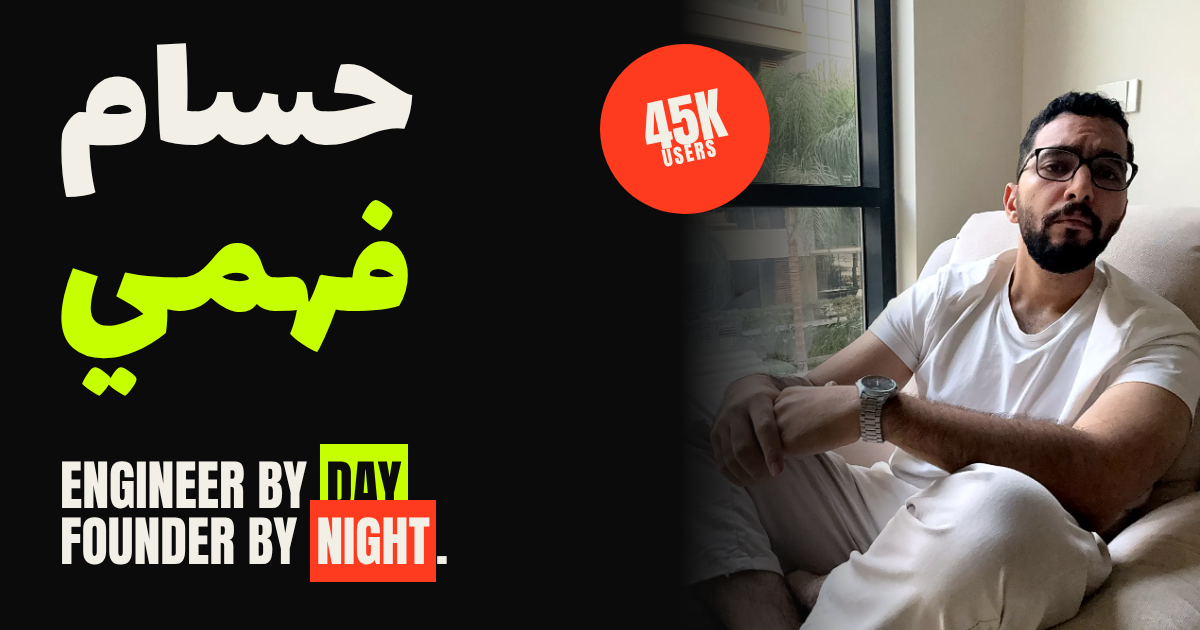
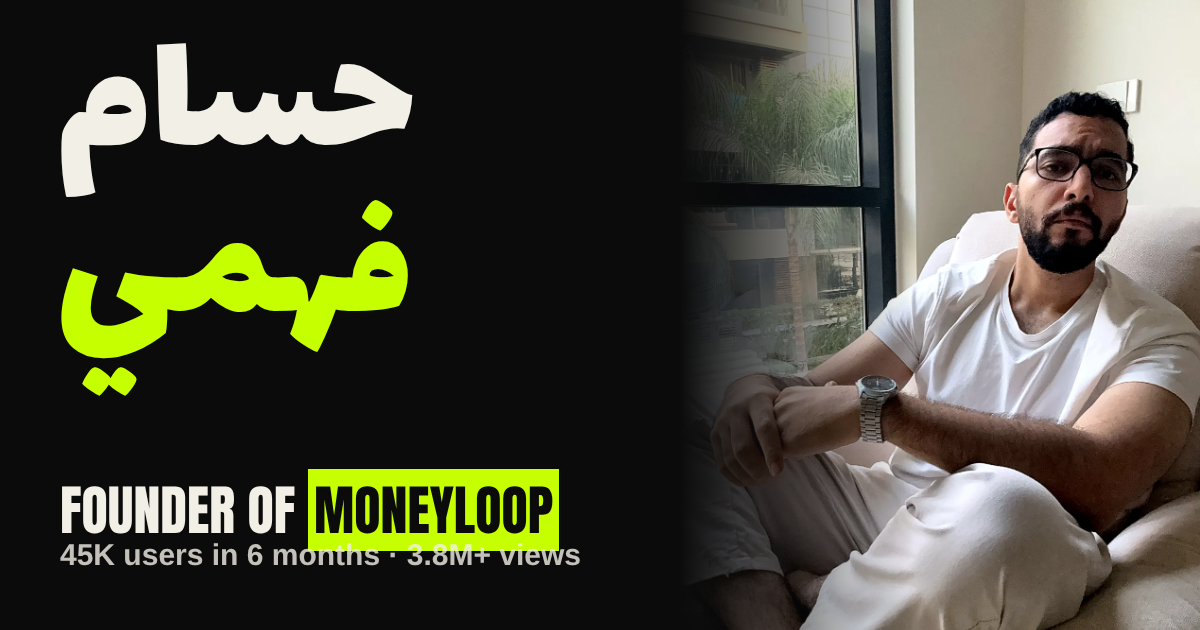
me v3: drop ticker and sticker, calmer investor-friendly hero
Claude-Session: https://claude.ai/code/session_01Dt1qxrqNwLt1sDhViMNk1D

Changed region(s): [[0.0308, 0.6937, 0.4933, 0.9349], [0.4933, 0.0603, 0.6475, 0.3619]]

diff --git a/me/index.html b/me/index.html
@@ -3,14 +3,14 @@
 <head>
 <meta charset="utf-8">
 <meta name="viewport" content="width=device-width, initial-scale=1, viewport-fit=cover">
-<title>حسام فهمي — مهندس بالنهار، فاوندر بالليل</title>
+<title>حسام فهمي — فاوندر MoneyLoop</title>
 <meta name="description" content="من الحقوق للكود للفاوندر. حسام فهمي: فاوندر MoneyLoop (45 ألف مستخدم في 6 شهور)، صانع محتوى القرش الأبيض، وسينيور سوفتوير إنجينير.">
 <meta name="theme-color" content="#0B0B0B">
 <link rel="canonical" href="https://hossamfahmy.com/me/">
 <meta property="og:type" content="profile">
 <meta property="og:url" content="https://hossamfahmy.com/me/">
-<meta property="og:title" content="حسام فهمي — مهندس بالنهار، فاوندر بالليل">
-<meta property="og:description" content="45 ألف مستخدم في 6 شهور. +3.8 مليون مشاهدة. كو فاوندر ستارت أب توصيل من 2018.">
+<meta property="og:title" content="حسام فهمي — فاوندر MoneyLoop">
+<meta property="og:description" content="فاوندر MoneyLoop: 45 ألف مستخدم في 6 شهور. +3.8 مليون مشاهدة على القرش الأبيض. كو فاوندر Went (2018).">
 <meta property="og:image" content="https://hossamfahmy.com/me/og.png">
 <meta name="twitter:card" content="summary_large_image">
 <link rel="icon" href="/favicon.svg" type="image/svg+xml">
@@ -34,32 +34,23 @@
       <img src="/me/hero.webp" alt="" width="1100" height="1467" fetchpriority="high">
     </figure>
     <div class="hero__copy">
-      <p class="tag mono"><span class="ar">مش السي ڤي. القصة.</span><span class="en">Not the CV. The story.</span></p>
+      <p class="tag mono"><span class="ar">القاهرة · فاوندر · مهندس · صانع محتوى</span><span class="en">Cairo · Founder · Engineer · Creator</span></p>
       <h1 id="hero-name" class="name">
         <span class="ar"><span class="l1">حسام</span><span class="l2">فهمي</span></span>
         <span class="en"><span class="l1">HOSSAM</span><span class="l2">FAHMY</span></span>
       </h1>
       <p class="hero__line">
-        <span class="ar">مهندس <mark>بالنهار</mark>.<br>فاوندر <mark class="hot">بالليل</mark>.</span>
-        <span class="en">Engineer by <mark>day</mark>.<br>Founder by <mark class="hot">night</mark>.</span>
+        <span class="ar">فاوندر <b class="lime">MoneyLoop</b>.<br>مهندس سوفتوير، وبتكلم عن الفلوس.</span>
+        <span class="en">Founder of <b class="lime">MoneyLoop</b>.<br>Software engineer. I talk about money.</span>
       </p>
     </div>
-    <div class="sticker" aria-hidden="true"><span class="ar">45K<br><small>مستخدم</small></span><span class="en">45K<br><small>users</small></span></div>
   </section>
-
-  <!-- TICKER -->
-  <div class="ticker" aria-hidden="true">
-    <div class="ticker__track">
-      <span class="ar">45,000 مستخدم ✶ 100 أوردر في اليوم ✶ نص مليون جنيه استثمار ✶ +3.8 مليون مشاهدة ✶ حقوق ← كود ← فاوندر ✶ </span><span class="en">45,000 USERS ✶ 100 ORDERS A DAY ✶ EGP 500K RAISED ✶ 3.8M+ VIEWS ✶ LAW → CODE → FOUNDER ✶ </span>
-      <span class="ar">45,000 مستخدم ✶ 100 أوردر في اليوم ✶ نص مليون جنيه استثمار ✶ +3.8 مليون مشاهدة ✶ حقوق ← كود ← فاوندر ✶ </span><span class="en">45,000 USERS ✶ 100 ORDERS A DAY ✶ EGP 500K RAISED ✶ 3.8M+ VIEWS ✶ LAW → CODE → FOUNDER ✶ </span>
-    </div>
-  </div>
 
   <!-- INTRO -->
   <section class="intro">
     <p class="big">
-      <span class="ar">درست <s>حقوق</s>. فتحت ستارت أب وأنا لسه في الكلية. اتعلمت البرمجة من الصفر، ودلوقتي سينيور سوفتوير إنجينير الصبح، وبالليل ببني <b class="lime">MoneyLoop</b> وبعمل محتوى عن الفلوس.</span>
-      <span class="en">I studied <s>law</s>. Started a company while still in college. Learned to code from zero. Now I'm a senior software engineer by day, and by night I build <b class="lime">MoneyLoop</b> and make videos about money.</span>
+      <span class="ar">درست حقوق. وأنا لسه في الكلية شاركت في تأسيس ستارت أب. اتعلمت البرمجة من الصفر، ودلوقتي سينيور سوفتوير إنجينير الصبح، وبالليل ببني <b class="lime">MoneyLoop</b> وبعمل محتوى عن الفلوس.</span>
+      <span class="en">I studied law. While still in college, I co-founded a startup. Learned to code from zero. Now I'm a senior software engineer by day, and by night I build <b class="lime">MoneyLoop</b> and make videos about money.</span>
     </p>
   </section>
 
@@ -111,7 +102,7 @@
   <!-- SPLIT PHOTO -->
   <section class="split" aria-hidden="true">
     <img src="/me/split.webp" alt="" loading="lazy" width="1000" height="1333">
-    <p class="split__word"><span class="ar">لسه<br>بادئ.</span><span class="en">JUST<br>GETTING<br>STARTED.</span></p>
+    <p class="split__cap mono"><span class="ar">ببني حاجات الناس بتستخدمها، وبحكي عنها بالأرقام.</span><span class="en">I build things people use, and share the numbers.</span></p>
   </section>
 
   <!-- CONTENT -->
@@ -134,8 +125,8 @@
   <!-- NEXT -->
   <section class="next" aria-labelledby="next-h">
     <h2 id="next-h" class="next__h">
-      <span class="ar">اللي <mark class="hot">جاي</mark>.</span>
-      <span class="en">What's <mark class="hot">next</mark>.</span>
+      <span class="ar">اللي جاي.</span>
+      <span class="en">What's next.</span>
     </h2>
     <ol class="goals">
       <li><span class="ar"><b class="goal">1,000,000</b> مستخدم على MoneyLoop، وأول حاجة أي حد في مصر يفتحها يوم ما يقبض.</span><span class="en"><b class="goal">1,000,000</b> MoneyLoop users, and the first thing anyone in Egypt opens on payday.</span></li>

diff --git a/src/me.css b/src/me.css
@@ -148,3 +148,13 @@ html[lang=ar] .next__h mark{display:inline-block;line-height:1.1;padding:0 .1em 
 html[lang=en] .show__stats i{font-family:var(--mono);font-size:12px;text-transform:uppercase}
 .show:hover .show__stats b,.show:focus-visible .show__stats b{color:var(--ink)}
 .goal{font-family:var(--en-d);font-weight:400;color:var(--lime);font-size:1.25em;letter-spacing:.01em}
+/* v3: calmer, investor-proof */
+.hero__line{font-size:clamp(20px,5.2vw,34px);font-weight:600;line-height:1.35}
+html[lang=en] .hero__line{font-family:"Inter",system-ui,sans-serif;text-transform:none;font-weight:600;letter-spacing:-.01em}
+.ch:nth-child(3){background:var(--paper);color:var(--ink)}
+.num:nth-child(3) b{color:var(--paper)}
+.big s{color:inherit;text-decoration:none}
+.split__cap{position:absolute;inset:auto var(--pad) 24px;margin:0;color:var(--paper);z-index:1;font-size:13px;max-width:30ch;line-height:1.6}
+.next__h{font-size:clamp(64px,18vw,160px)}
+.show--alt{border-color:var(--paper)}
+.show--alt .show__at{color:var(--lime)}

diff --git a/src/me.ts b/src/me.ts
@@ -1,8 +1,8 @@
 const root = document.documentElement;
 
 const TITLES = {
-  ar: 'حسام فهمي — مهندس بالنهار، فاوندر بالليل',
-  en: 'Hossam Fahmy — Engineer by day, founder by night',
+  ar: 'حسام فهمي — فاوندر MoneyLoop',
+  en: 'Hossam Fahmy — Founder of MoneyLoop',
 };
 
 function setLang(lang: 'ar' | 'en') {
